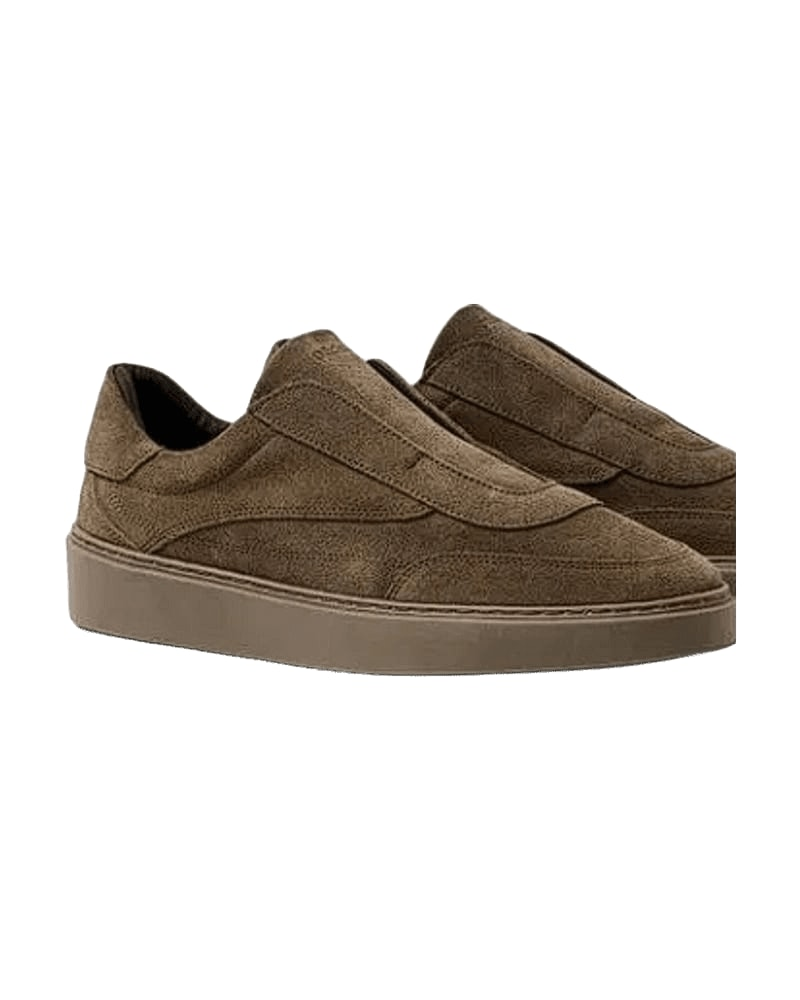
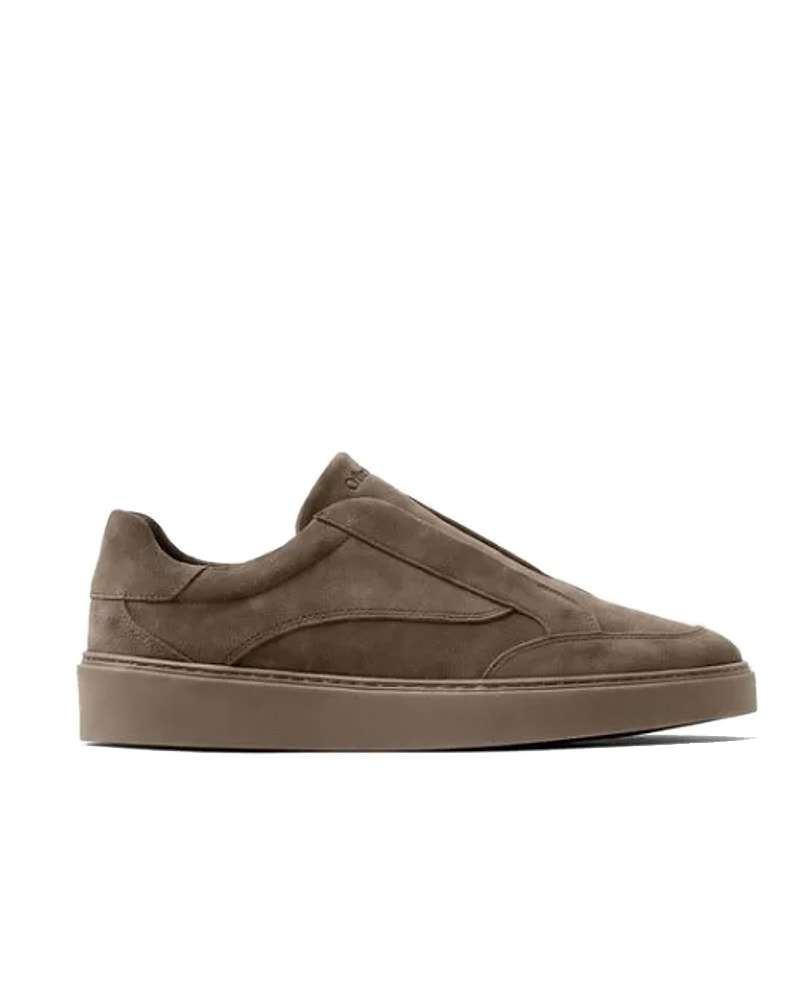
Novas fotos do Tênis Refine Slip Camurça (4 fotos)

Changed region(s): [[0.0625, 0.31, 0.9688, 0.775]]

diff --git a/produtos.js b/produtos.js
@@ -96,7 +96,7 @@ window.CR_PRODUTOS = [
    Para adicionar uma foto, salve como id-3.jpg e aumente o número aqui. */
 window.CR_FOTOS = {
   'farm-03': 2, 'farm-09': 2, 'farm-10': 2,
-  'res-05': 2, 'res-07': 2, 'res-08': 2, 'res-09': 2, 'res-10': 2, 'res-11': 2, 'res-16': 2,
+  'res-04': 4, 'res-05': 2, 'res-07': 2, 'res-08': 2, 'res-09': 2, 'res-10': 2, 'res-11': 2, 'res-16': 2,
   'vix-01': 2, 'vix-02': 2, 'vix-03': 2, 'vix-04': 2, 'vix-05': 2, 'vix-06': 2, 'vix-07': 2,
   'vix-08': 2, 'vix-09': 2, 'vix-10': 2, 'vix-11': 2, 'vix-12': 2, 'vix-13': 2
 };

diff --git a/index.html b/index.html
@@ -694,7 +694,7 @@ body.lock { overflow: hidden; }
 
 <div class="toast" id="toast" role="status" aria-live="polite" hidden></div>
 
-<script src="produtos.js?v=d8ab9482"></script>
+<script src="produtos.js?v=4581645e"></script>
 <script>
 (function () {
   var CFG = window.CR_CONFIG || {};
